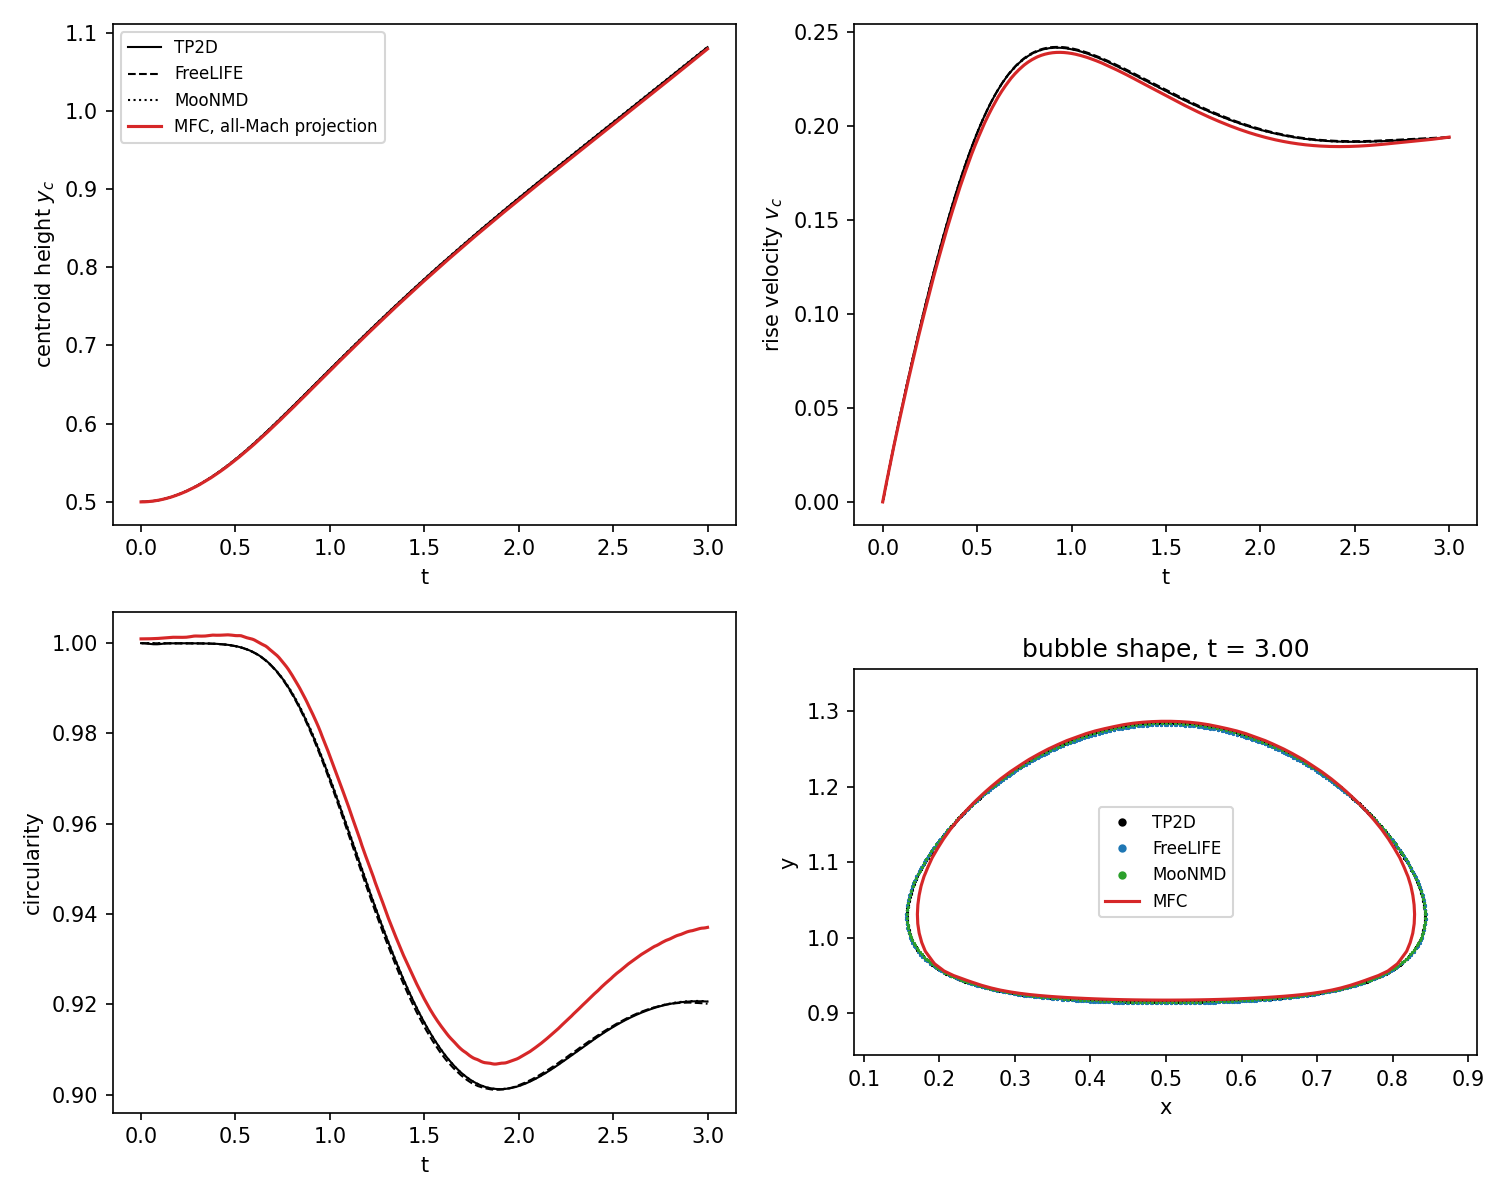
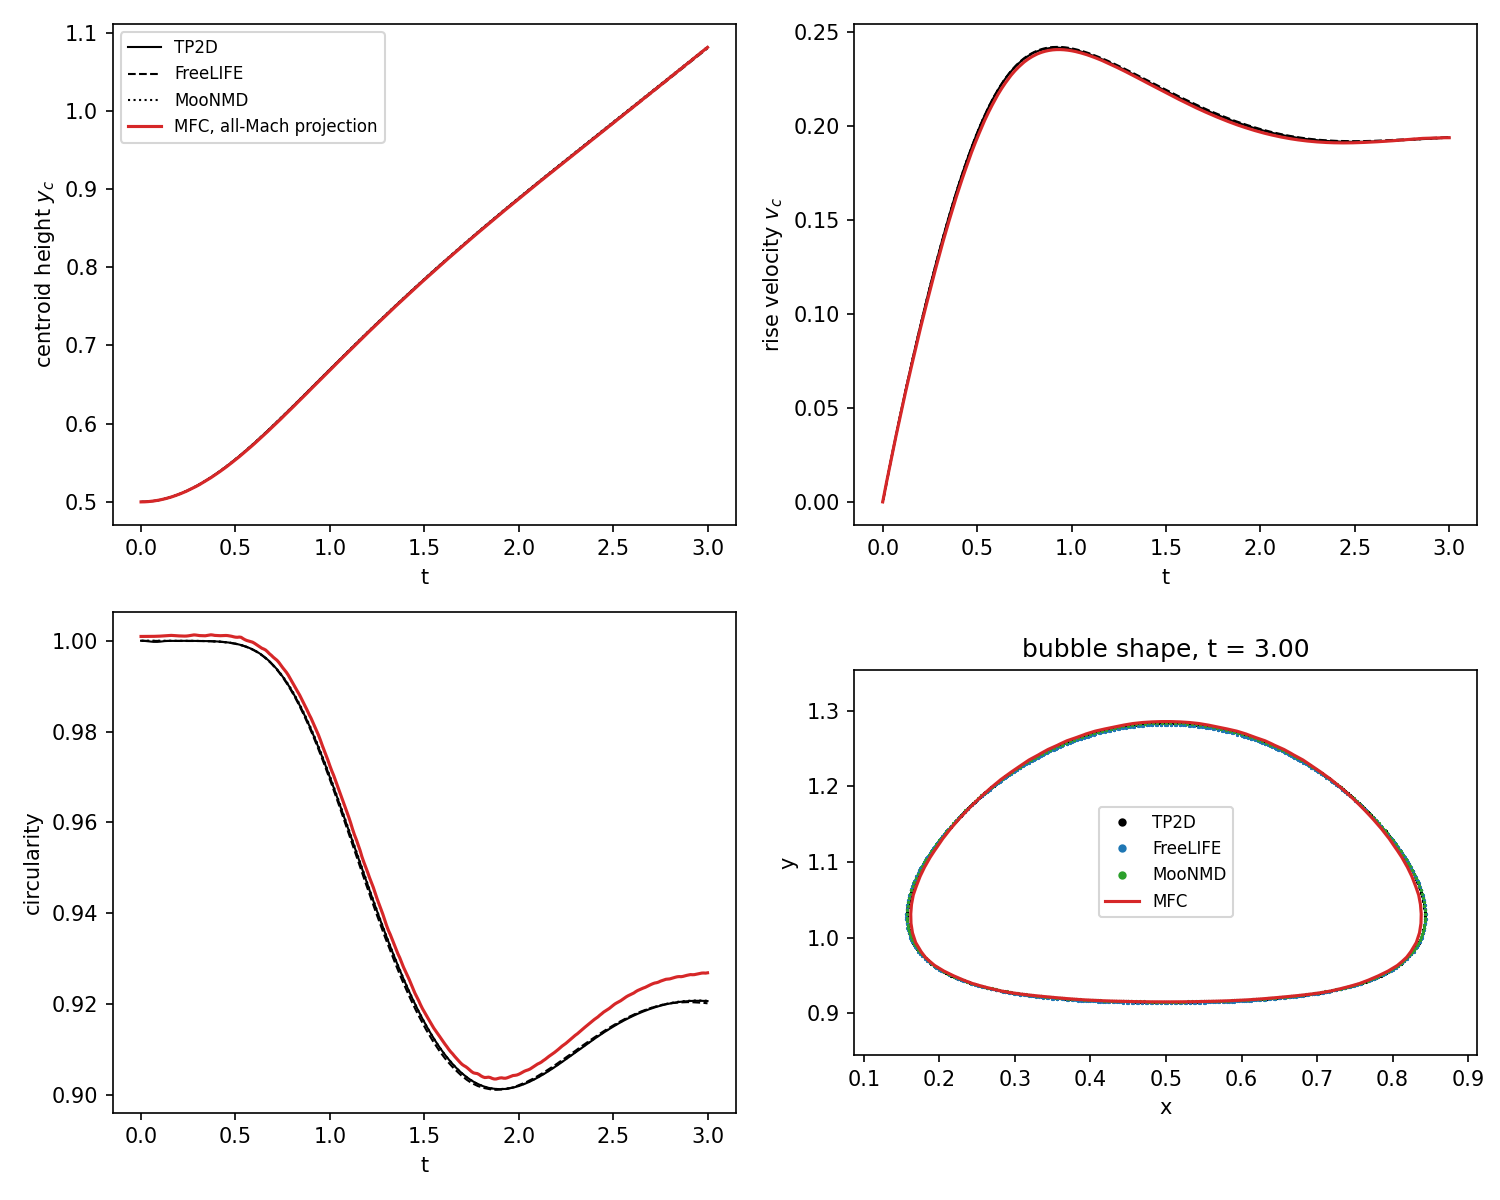
Update the rising-bubble results for the entropy-drift fix
Rerun at h = 1/40 and 1/80 after d3f19747. Test case 1 at h = 1/80 now
gives circularity 0.904, rise velocity 0.241 and centroid 1.081 against
TP2D's 0.901, 0.242 and 1.081 (were 0.907, 0.239, 1.079); test case 2's
first peak and final centroid move closer to the reference, while its
second rise-velocity peak is still missing. Regenerates result.png.

diff --git a/examples/2D_rising_bubble/README.md b/examples/2D_rising_bubble/README.md
@@ -21,11 +21,11 @@ against ~720,000 explicit steps (~2.4 h), about 58x in wall time.
 
 | quantity                | h = 1/40 | h = 1/80 | TP2D (finest) |
 |-------------------------|----------|----------|---------------|
-| min circularity         | 0.919    | 0.907    | 0.901         |
-| max rise velocity       | 0.234    | 0.239    | 0.242         |
-| centroid height, t = 3  | 1.073    | 1.079    | 1.081         |
+| min circularity         | 0.912    | 0.904    | 0.901         |
+| max rise velocity       | 0.238    | 0.241    | 0.242         |
+| centroid height, t = 3  | 1.081    | 1.081    | 1.081         |
 
 Test case 2 converges toward the reference more slowly: from h = 1/40 to 1/80 the first rise-velocity
-peak goes 0.240 -> 0.247 (TP2D 0.252) and the final centroid 1.071 -> 1.093 (TP2D 1.138), and the
-circularity follows FreeLIFE and MooNMD. The second rise-velocity peak near t = 2 is not yet
-reproduced at these resolutions, and the late rise velocity stays ~15% low.
+peak goes 0.244 -> 0.249 (TP2D 0.252) and the final centroid 1.090 -> 1.104 (TP2D 1.138), and the
+final circularity (0.479) lies between FreeLIFE's and MooNMD's. The second rise-velocity peak near t = 2 is
+not yet reproduced at these resolutions, and the late rise velocity stays ~15% low.
